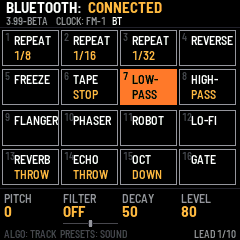
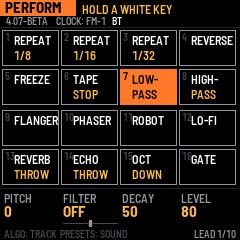
STACK 4.07-beta: QA fixes from the 4.06 play-test (words, the header, the manual)
Wording, drawing and data only; the sound is bit for bit as in 4.06.

The undo. After PERFORM keys 1-5 took the block the looper's undo slept in
(PERFORM USED THE UNDO LAYER), REC held 3-5 s said ONLY 1 LAYER CAN BE
UNDONE. It now says the reason: NO UNDO: PERFORM USED IT. pf_undo_gone keeps
2 after the screen said it once, and goes back to 0 as soon as a new layer
has an undo again (that layer's undo works, and the next hold says ONLY 1
LAYER as before); with no loop it is NO LAYER TO UNDO as before.

EDIT page 1, LOOP on AUTO: no longer "AS THE SOUND, ONCE" for every sound
without its own loop. A sound with its own loop says ": ITS OWN LOOP" (as ON
does), a drum, or a sound with REVERSE on, ": ONCE", any other sound
": HOLDS WHILE HELD" (since 4.03 a held key holds it).

T8L / T7L. Selecting the loop's track with ALGORITHM says nothing (its LEVEL
is worth selecting it for). THE LOOP'S TRACK: SELECT ANOTHER comes when a key
is played there (and on PRESETS / SEQ, as before). Selecting another track
takes any THE LOOP'S TRACK message off at once.

The header. SAVE held: its bar starts after the version (x 50, as REC's)
and the clock line makes room for it, as it does for REC's bar (it was drawn
through CLOCK: FM-1). The LATCH tag (e.g. REVERSE +2) and SOUND IN BURGER
are drawn in the version line's font, in a box that ends above the line
under the header (FONT_XS was 15 px in a 12 px box: the bottoms were cut);
[…]

diff --git a/stack/app/app.c b/stack/app/app.c
@@ -136,23 +136,25 @@ static void list_name(uint32_t i, char *b)   /* "EMPTY", "KICK ROCK", "MY 1 SPOO
     }
 }
 
-static void cat_text(uint32_t i, char *b)    /* "KEYS 3/15": the category and the sound's place in it; "MY SAMPLES" */
+static void cat_text(uint32_t i, char *b)    /* "KEYS 3/15": the group and the place in it; "MY 2/3"; EMPTY: "" */
 {
-    const sound_t *s = list_sound(i);
-    uint32_t k, at = 0, of = 0;
+    uint32_t k, at = i - NSOUNDS, of = NMY;
+    const char *g = "MY";
     char n[8];
     b[0] = 0;
-    if (i < 1u || i > NSOUNDS) {
-        text_cat(b, i ? "MY SAMPLES" : "");
+    if (!i)
         return;
+    if (i <= NSOUNDS) {
+        const uint32_t c = SOUNDS[i - 1u].cat;
+        g = CAT_NAME[c];
+        for (k = at = of = 0; k < NSOUNDS; k++)
+            if (SOUNDS[k].cat == c) {
+                of++;
+                if (k < i)
+                    at++;
+            }
     }
-    for (k = 0; k < NSOUNDS; k++)
-        if (SOUNDS[k].cat == s->cat) {
-            of++;
-            if (&SOUNDS[k] <= s)
-                at++;
-        }
-    text_cat(b, CAT_NAME[s->cat]);
+    text_cat(b, g);
     text_cat(b, " ");
     int_text((int32_t)at, n);
     text_cat(b, n);
@@ -1786,8 +1788,6 @@ static struct {
     uint8_t sel;                         /* the selected track */
     uint8_t page;
     int8_t octave;                       /* -2 .. +2 */
-    uint8_t turn_trk, turn_from;         /* PRESETS: the track being turned and the sound the turn began at (the screen says both) */
-    uint32_t turn_t;                     /* its last turn */
     int8_t held_step;                    /* the step page: the step whose key is down (-1 none) */
     uint8_t held_turned;                 /* KNOB 1 turned while it was held: letting go does not toggle it */
     uint8_t note_of[NKEYS];              /* the note each held key started (the octave may change under it) */
@@ -1882,7 +1882,8 @@ static void speak(void)                      /* a screen reader that asks hears 
 }
 
 /* PRESETS: the selected track's sound, one place along the list; the list stops at its ends. Only the sound changes:
- * the knobs' values, the steps and the other tracks stay. The screen says the old and the new */
+ * the knobs' values, the steps and the other tracks stay. The screen says where the turn is now: the group and the
+ * place, and the sound */
 /* ------------------------------------------------------------------ the looper's side of the panel --- */
 static int on_t8l(void) { return ui.sel == lp.trk && lp.own; }   /* the looper's track (T8L or T7L) is selected */
 static void say_t8l(void) { app_say("THE LOOP'S TRACK:", "SELECT ANOTHER"); }
@@ -1937,6 +1938,8 @@ static void looper_undo(void)                /* REC held 3 to 5 s: the take unde
         layer_text(a, lp.layers);
         lp.req = LQ_UNDO;
         app_say(a, "UNDONE");
+    } else if (lp.has && pf_undo_gone) {    /* PERFORM's buffer took the block the undo slept in (perform.c) */
+        app_say("NO UNDO:", "PERFORM USED IT");
     } else if (lp.has) {
         app_say("ONLY 1 LAYER", "CAN BE UNDONE");
     } else {
@@ -1956,9 +1959,9 @@ static void looper_clear(void)               /* REC held 5 s: the whole loop goe
 
 static void sound_turn(int32_t e)
 {
-    uint32_t t = ui.sel, old = trk[t].sound, now = plat_ms();
+    uint32_t t = ui.sel, old = trk[t].sound;
     int32_t to = clamp((int32_t)old + e, 0, (int32_t)NLIST - 1);
-    char a[28], b[28], m[28];
+    char a[28], b[28];
     if (on_t8l()) {                          /* the looper's track has no sound to pick */
         say_t8l();
         return;
@@ -1967,18 +1970,10 @@ static void sound_turn(int32_t e)
         app_say(e < 0 ? "START OF LIST" : "END OF LIST", "");
         return;
     }
-    if (!(ui.turn_trk == t && now - ui.turn_t < 1500u)) {   /* a new turn: the sound it began at */
-        ui.turn_trk = (uint8_t)t;
-        ui.turn_from = (uint8_t)old;
-    }
-    ui.turn_t = now;
     trk[t].sound = (uint8_t)to;
-    list_name(ui.turn_from, a);              /* (the sound before the turn began) */
+    cat_text((uint32_t)to, a);               /* where the turn is now: the group and the place ("FX 2/5"), the sound */
     list_name((uint32_t)to, b);
-    m[0] = 0;
-    text_cat(m, "> ");
-    text_cat(m, b);
-    app_say(a, m);
+    app_say(a, b);
 }
 
 static void octave_step(int32_t d)
@@ -2279,6 +2274,7 @@ static void input(void)
         ui.pkeys |= ui.keys;
         ui.held_step = -1;
         ui.perform = 1;
+        ui.msg_until = 0;                    /* (a message before makes room: the header is PERFORM's at once) */
         ui.redraw = 1;
     }
     if ((released >> B_SEL & 1u) && ui.perform) {
@@ -2523,11 +2519,10 @@ static void input(void)
             ui_sel_isr = ui.sel;
             ui.held_step = -1;
             ui.redraw = 1;
-            if (on_t8l()) {                  /* onto the looper's track: the keys will be silent, said at once */
-                if (ui.page == PAGE_STEP)
-                    ui.page = PAGE_PLAY;     /* (it has no steps to show) */
-                say_t8l();
-            }
+            if (ui.msg[0][8] == '\'')        /* "THE LOOP'S TRACK: ..." was for the track left: it goes at once */
+                ui.msg_until = 0;
+            if (on_t8l() && ui.page == PAGE_STEP)    /* onto the looper's track: it has no steps to show (its LEVEL is */
+                ui.page = PAGE_PLAY;         /* K4's; the keys are silent, said when one is played) */
         }
     }
     if ((e = plat_enc(EN_PRESET)) != 0) {
@@ -2646,21 +2641,33 @@ static void page_words(uint32_t pg, char w[4][28], int32_t *pos)
         pos[q] = p4[q];
 }
 
+static int32_t tag(int32_t xr, const char *s, uint16_t c)   /* a box on the version's line ending at xr: its left */
+{
+    const int32_t x = xr - text_w(&FONT_T, s) - 8;
+    cv_rect(x, 15, xr - x, 12, c);
+    cv_text(x + 4, 15, &FONT_T, s, C_BLACK);
+    return x - 4;
+}
+
 static void draw_header(void)
 {
     char t[28];
+    int32_t xr = 240;
     uint32_t now = plat_ms();
+    const uint32_t svh = ui.sv_t && !ui.sv_fired && (int32_t)(now - ui.sv_t) > 400;
+    /* a bar on the second line (SAVE held, or REC's): it has the line to itself, after the version */
+    const uint32_t bar = svh || (REC_UP && now >= ui.msg_until && !ui.perform);
     cv_begin(240, 28, C_BLACK);
     /* two lines: the first is the name row or a message; the second, small, is the version, always there (the build's
      * APP_VERSION: stack/VERSION, the one place it is written) */
-    if (ui.sv_t && !ui.sv_fired && (int32_t)(now - ui.sv_t) > 400) {
+    if (svh) {
         /* SAVE is being held: what it will do, and a bar that fills until it does */
         const uint32_t held = now - ui.sv_t;
         cv_rect(0, 0, 44, 16, C_ORANGE);
         cv_text(5, 0, &FONT_B, "SAVE", C_BLACK);
         cv_text(50, 2, &FONT_XS, "HOLD: CLEAR SAVED SONG", C_WHITE);
-        cv_rect(42, 20, 192, 5, C_LINE);
-        cv_rect(42, 20, (int32_t)(held >= SAVE_HOLD_MS ? 192u : held * 192u / SAVE_HOLD_MS), 5, C_WHITE);
+        cv_rect(50, 20, 184, 5, C_LINE);
+        cv_rect(50, 20, (int32_t)(held >= SAVE_HOLD_MS ? 184u : held * 184u / SAVE_HOLD_MS), 5, C_WHITE);
     } else if (now < ui.msg_until) {
         int32_t x = cv_text(6, 0, &FONT_B, ui.msg[0], C_WHITE);
         cv_text(x + 6, 0, &FONT_B, ui.msg[1], C_HI);
@@ -2733,24 +2740,18 @@ static void draw_header(void)
     }
     {
         int32_t x = cv_text(6, 15, &FONT_T, APP_VERSION, C_GRAY);
-        if (!(REC_UP && now >= ui.msg_until && !ui.perform))
-        {
+        if (!bar) {
             x = cv_text(x + 8, 15, &FONT_T, !ck_follow ? "CLOCK: FM-1" : ck_src == PORT_BLE ? "CLOCK: BT" : "CLOCK: BURGER",
                         ck_follow ? C_HI : C_GRAY);
             if (ck_ble)                      /* a Bluetooth link is up */
                 cv_text(x + 6, 15, &FONT_T, "BT", C_WHITE);
         }
     }
-    if (stack_mute && !(REC_UP && now >= ui.msg_until && !ui.perform)) {
-        /* the app plays the FM-1's sound: said on the second line, on every page (a looper's bar there goes first) */
-        int32_t w = text_w(&FONT_XS, "SOUND IN BURGER");
-        cv_rect(240 - w - 10, 15, w + 10, 12, C_ORANGE);
-        cv_text(240 - w - 5, 15, &FONT_XS, "SOUND IN BURGER", C_BLACK);
-    }
+    if (stack_mute && !bar)                  /* the app plays the FM-1's sound: said on the second line, on every page */
+        xr = tag(xr, "SOUND IN BURGER", C_ORANGE);   /* (a bar there goes first) */
     if (!ui.perform && perform_lit()) {      /* effects of PERFORM's are on with SEL let go (LATCH): never silently */
         const uint32_t m = perform_lit();
         uint32_t k2, cnt = 0, first = 0;
-        int32_t w, x0;
         t[0] = 0;
         for (k2 = 0; k2 < NPK; k2++)
             if (m >> k2 & 1u) {
@@ -2768,10 +2769,7 @@ static void draw_header(void)
             int_text((int32_t)cnt - 1, c2);
             text_cat(t, c2);
         }
-        w = text_w(&FONT_XS, t);
-        x0 = stack_mute ? 4 : 240 - w - 10;  /* (right, as SOUND IN BURGER is; with that one up, left) */
-        cv_rect(x0, 15, w + 10, 12, C_WHITE);
-        cv_text(x0 + 5, 15, &FONT_XS, t, C_BLACK);
+        tag(xr, t, C_WHITE);                 /* (right, as SOUND IN BURGER is; with that one up, left of it) */
     }
     cv_rect(0, 27, 240, 1, C_LINE);
     cv_blit(0, 0);
@@ -3132,7 +3130,8 @@ static void draw_page4(uint32_t pg)
         if (!tr->ed_start)
             text_cat(w[0], " FROM ITS START");
         if (tr->ed_loop == ED_LOOP_AUTO)
-            text_cat(w[2], snd && (snd->flags & SF_LOOP) ? ": AS THE SOUND, LOOPED" : ": AS THE SOUND, ONCE");
+            text_cat(w[2], !snd ? "" : (snd->flags & SF_LOOP) ? ": ITS OWN LOOP" :      /* (since 4.03: a held key */
+                           (snd->flags & SF_DRUM) || tr->ed_rev ? ": ONCE" : ": HOLDS WHILE HELD");   /* holds) */
         else if (tr->ed_loop == ED_LOOP_ON)
             text_cat(w[2], snd && (snd->flags & SF_LOOP) ? ": ITS OWN LOOP" : ": START TO LENGTH");
         if (tr->ed_len == 100u)
@@ -3409,9 +3408,11 @@ void app_frame(void)
             said = now | 1u;
         }
     }
-    if (pf_undo_gone) {                      /* a buffer effect of PERFORM's took the block the looper's undo was in */
-        pf_undo_gone = 0;
+    if (pf_undo_gone == 1u) {                /* a buffer effect of PERFORM's took the block the looper's undo was in: */
+        pf_undo_gone = 2;                    /* said once; kept (2) for REC's undo to say why, until a new layer's undo */
         app_say("PERFORM USED", "THE UNDO LAYER");
+    } else if (lp.undo && pf_undo_gone) {
+        pf_undo_gone = 0;
     }
     {
         static uint8_t take_drawn;           /* (the overlay's dim keys follow the take) */
@@ -3636,6 +3637,19 @@ int app_expect(const char *what, int *got)
         *got = lp.has;
     else if (!strcmp(what, "loop_layers"))
         *got = lp.layers;
+    else if (!strncmp(what, "msg_", 4)) {    /* msg_TEXT: the header's message now has TEXT in it ('_' a space): 1, else 0 */
+        char t[64], w[48];
+        uint32_t i;
+        for (i = 0; what[4u + i] && i < 47u; i++)
+            w[i] = what[4u + i] == '_' ? ' ' : what[4u + i];
+        w[i] = 0;
+        t[0] = 0;
+        text_cat(t, ui.msg[0]);
+        text_cat(t, " ");
+        text_cat(t, ui.msg[1]);
+        *got = plat_ms() < ui.msg_until && strstr(t, w) != 0;
+        printf("  the header says: %s\n", plat_ms() < ui.msg_until ? t : "(nothing)");
+    }
     else if (!strcmp(what, "loop_undo"))     /* a layer can be taken off, */
         *got = lp.undo;
     else if (!strcmp(what, "loop_state"))    /* 0 idle, 1 waiting for the bar, 2 recording, */

diff --git a/stack/tools/make_perform_test.py b/stack/tools/make_perform_test.py
@@ -34,7 +34,9 @@ many("tap SEQ", "wait 40", "expect track 6",
      "# --- stopped: SEL held shows the sixteen keys; a key is its effect, not a note; nothing goes out; let go, it is gone",
      "ble connect", "wait 100", "expect bt 1",
      "expect perform 0", "expect pf_run 0",
-     "press SEL", "wait 60", "expect perform 1", "shot perform_overlay.png",
+     "press SEL", "wait 60", "expect perform 1",
+     "expect msg_ 0",   # (4.07: BLUETOOTH: CONNECTED, said just before, makes room: the header is PERFORM's at once)
+     "shot perform_overlay.png",
      "key w6 down 100", "wait 100", "expect pf_lit 64", "expect voices 0", "expect bt_out 0", "expect notes_out 0",
      "shot perform_key_lit.png",
      "key b0 down 100", "wait 40", "key b0 up", "wait 40", "expect voices 0", "expect pf_lit 64",
@@ -117,12 +119,18 @@ many("expect lim_clips 0",
      "expect loop_undo 1",
      "# no take: a REPEAT borrows that block; the undo is given up (the screen says so once), the loop itself is whole",
      "press SEL", "wait 40", "key w1 down 100", "wait 700", "expect pf_ph >0", "expect loop_undo 0", "expect loop_layers 3",
-     "expect loop_has 1", "shot perform_undo_used.png", "key w1 up", "wait 40", "release SEL", "wait 400",
-     "# REC held 3 s: nothing to undo now; the loop plays on",
+     "expect loop_has 1", "expect msg_PERFORM_USED_THE_UNDO_LAYER 1", "shot perform_undo_used.png", "key w1 up",
+     "wait 40", "release SEL", "wait 400",
+     "# REC held 3 s: nothing to undo now, and the screen says why (4.07: not ONLY 1 LAYER); the loop plays on",
      "press REC", "wait 3500", "release REC", "wait 100", "expect loop_layers 3", "expect loop_has 1",
+     "expect msg_NO_UNDO:_PERFORM_USED_IT 1", "expect msg_ONLY_1_LAYER 0", "shot perform_no_undo.png",
      "# a REPEAT held when a take is armed gives the block back at once: the take is whole",
      "press SEL", "wait 40", "key w1 down 100", "wait 500", "expect pf_buf 2", "tap REC", "wait 100", "expect pf_ph -1",
      "expect pf_lit 0", "wait 4300", "expect loop_layers 4", "expect loop_undo 1", "expect pf_buf 0", "key w1 up", "release SEL", "wait 200",
+     "# that new layer's undo is the looper's again: it goes; one more hold says ONLY 1 LAYER, not PERFORM",
+     "press REC", "wait 3500", "release REC", "wait 400", "expect loop_layers 3", "expect msg_LAYER_4_UNDONE 1",
+     "wait 1600", "press REC", "wait 3500", "release REC", "wait 100", "expect msg_ONLY_1_LAYER_CAN_BE_UNDONE 1",
+     "expect msg_PERFORM 0",
      "press REC", "wait 5200", "release REC", "wait 200", "expect loop_has 0",
      "tap PLAY", "wait 300", "expect lim_clips 0", "expect store_writes 2",
      "expect bench_mid >0", "expect bench_perform >0")

diff --git a/stack/app/perform.c b/stack/app/perform.c
@@ -23,7 +23,7 @@ enum { PK_REP8, PK_REP16, PK_REP32, PK_REV, PK_FREEZE, PK_TAPE, PK_LP, PK_HP, PK
 #define PK_NOTAKE (PK_BUFFER | 1u << PK_TAPE | 1u << PK_OCT)   /* not while a take records (they would be in it, or need its block) */
 static volatile uint16_t pf_on;              /* the effects that are on, but the buffer's (the main loop sets them) */
 static volatile uint8_t pf_buf;              /* the buffer's effect wanted: 0 none, else 1 + PK_* */
-static volatile uint8_t pf_undo_gone;        /* a buffer effect took the block the undo was in: the screen says so once */
+static volatile uint8_t pf_undo_gone;        /* a buffer effect took the block the undo was in: 1 the screen says so, 2 said */
 static uint8_t pf_run;                       /* something of it sounds: its stages run */
 static float pf_g[NPK];                      /* each effect's ramp, 0 .. 1 (the audio interrupt) */
 static float pf_rate = 1.0f;                 /* the voices' rate (TAPE STOP, OCT DOWN): 1 none */

diff --git a/stack/tools/make_receive_test.py b/stack/tools/make_receive_test.py
@@ -195,6 +195,7 @@ def main(out):
           f"data_erase {0xA0000}", "reboot", "wait 300", "expect my1 0", "expect my_why1 1",
           f"data_write {0xA0000} 4142434445464748", "reboot", "wait 300", "expect my1 0", "expect my_why1 2",
           "turn ALGO 6", "wait 30", f"turn PRESET {NS + 1}", "wait 60", "shot my_refused.png",
+          "expect msg_MY_1/3_MY_1_(BAD 1",
           "expect lim_clips 0", "expect store_writes 0"]
     open(out, "w").write("\n".join(L) + "\n")
     print(f"{out}: {len(L)} lines; MY 1's gain should come to {g1:.2f}")

diff --git a/stack/app/docs/MANUAL.md b/stack/app/docs/MANUAL.md
@@ -1,6 +1,6 @@
 # STACK manual
 
-STACK is a firmware for the M-VAVE FM-1, made by Maker Hip. This manual is for version 4.06-beta.
+STACK is a firmware for the M-VAVE FM-1, made by Maker Hip. This manual is for version 4.07-beta.
 
 ![The start screen: record crates stacked on top of each other](img/cover.png)
 
@@ -45,7 +45,8 @@ All sounds are in one list. The list starts with EMPTY. Then come 69 built-in so
 PAD, LEAD, FX. The last three places are MY 1, MY 2 and MY 3: the samples you send from Burger Studio.
 
 Turn PRESETS slowly to go sound by sound. The list stops at both ends. The bottom line of the screen shows the
-group and the place, for example `KEYS 3/15`.
+group and the place, for example `KEYS 3/15` or `MY 2/3`. While you turn, the top of the screen shows where you
+are now: the group and the place, and the sound, for example `FX 2/5 RAIN`.
 
 Tracks 1 to 6 start with a sound. Tracks 7 and 8 start EMPTY.
 
@@ -155,7 +156,7 @@ Press EDIT to open page 1. It changes how the selected track plays its sound.
 |---|---|
 | K1 START | Where the sound starts, in per cent. |
 | K2 REVERSE | ON plays the sound backwards. |
-| K3 LOOP | AUTO plays the sound as it is, and holds it while you hold a key (see below). OFF plays it once. ON loops it. |
+| K3 LOOP | AUTO: a sound with its own loop loops; a drum plays once; any other sound holds while you hold a key (see below). OFF plays it once. ON loops it. |
 | K4 LENGTH | How much of the sound plays after START. 100% is to the end. |
 
 **Long notes (LOOP on AUTO).** Hold a key and the note sounds for as long as you hold it, also on sounds that
@@ -165,7 +166,8 @@ and fades as RELEASE says. START and LENGTH move the place: a shorter LENGTH hol
 
 - Drums play once, as always.
 - Steps of the sequencer play the sound once, as always. Only keys you hold (and the ARP's notes) are held.
-- LOOP OFF plays the sound once, also under a held key. A sound that FIT stretches to bars is not held either.
+- LOOP OFF plays the sound once, also under a held key. A sound that FIT stretches to bars is not held either, nor
+  a sound played backwards (REVERSE ON): the screen then says `AUTO: ONCE`.
 - A held note has a steady, organ-like tone. It no longer fades by itself, so a piano held for long does not
   sound like a real piano.
 
@@ -254,13 +256,16 @@ happen when you let go.
   plays while the loop is on the other.
 - A layer you cancel, or an undo, does not move the loop. When you clear the loop, tracks 7 and 8 both play their
   own sounds again, and the next first layer goes to track 8.
-- If the selected track is the one that holds the loop (T8L or T7L), the keys are silent and the screen says
-  `SELECT ANOTHER`. Select another track to play.
+- If the selected track is the one that holds the loop (T8L or T7L), the keys are silent. Play a key there and the
+  screen says `THE LOOP'S TRACK: SELECT ANOTHER`. Select another track to play. Selecting T8L or T7L only to set
+  the loop's LEVEL says nothing.
 - The loop has its own LEVEL: K4 on T8L or T7L sets it, and it stays the same when the loop moves. A new loop starts
   at 80, as loud as you played it. The FILTER, EQ, FX and LFO of the track that holds the loop work on the loop.
-- A layer on top is only kept when you let go of REC within half a second. If you hold REC longer, that layer is
-  dropped and the loop stays as it was. So holding REC to remove a layer never records anything.
-- If you hold the REC press that ends a layer for 3 seconds, the layer you just made is removed again.
+- The press that **starts** a layer on top must be a short one: let go of REC within half a second. If you hold
+  that press longer, it is a hold (undo or clear, see the table), the layer is dropped and the loop stays as it
+  was. So holding REC to remove a layer never records anything.
+- The press that **ends** a layer keeps that layer at once, however long you hold it. If you hold it for 3
+  seconds, the layer you just made is removed again.
 - Starting a new layer means the layer before it can no longer be removed.
 - If you stop the sequencer while a layer records, that layer is dropped.
 - When the FM-1 follows a clock (`CLOCK: BURGER` or `CLOCK: BT`), the clock starts the sequencer. REC while it is
@@ -306,7 +311,8 @@ effect on everything you hear, on all tracks at once. Hold the key: the effect i
 
 - While the looper records a layer, keys 1 to 6 and key 15 wait. They are dim on the screen.
 - If you use keys 1 to 5, the looper can no longer remove its last layer (REC held 3 seconds). The screen tells you once:
-  `PERFORM USED THE UNDO LAYER`. The loop itself is safe.
+  `PERFORM USED THE UNDO LAYER`. The loop itself is safe. Hold REC for an undo after that and the screen says
+  `NO UNDO: PERFORM USED IT`. The next layer can be removed again.
 
 **LATCH.** On the GLO page, K4 sets PERFORM LATCH to ON or OFF. It starts OFF.
 
